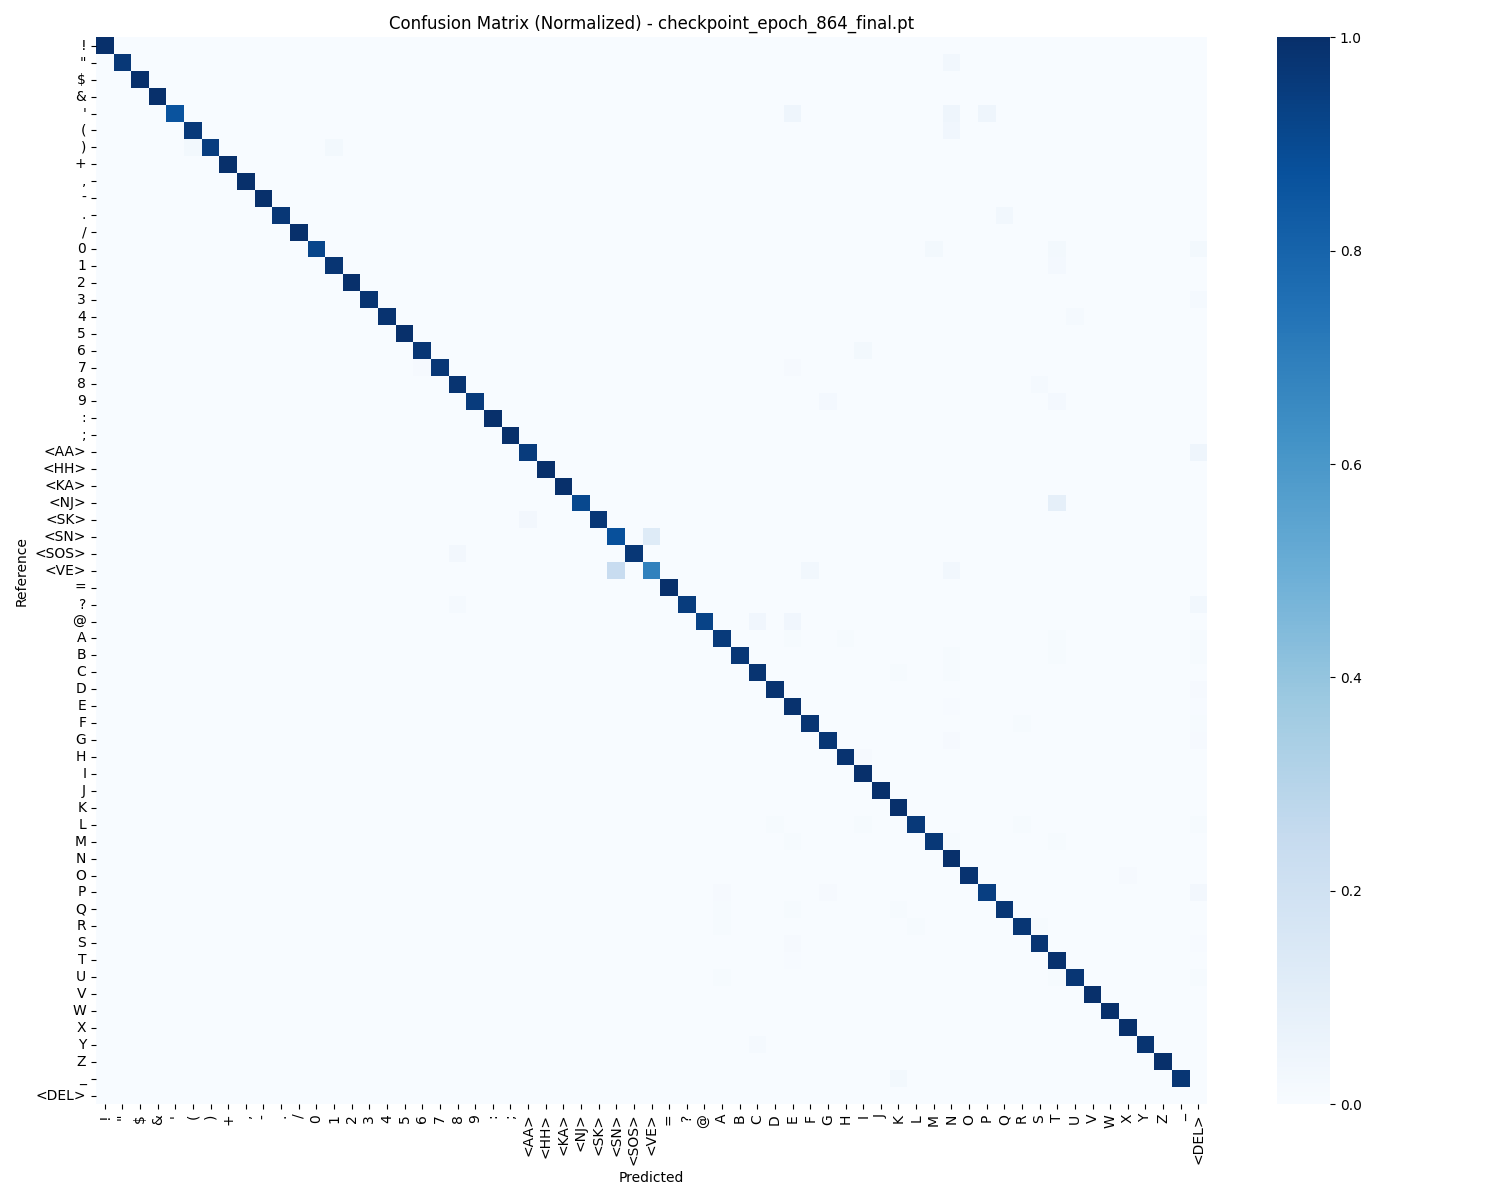
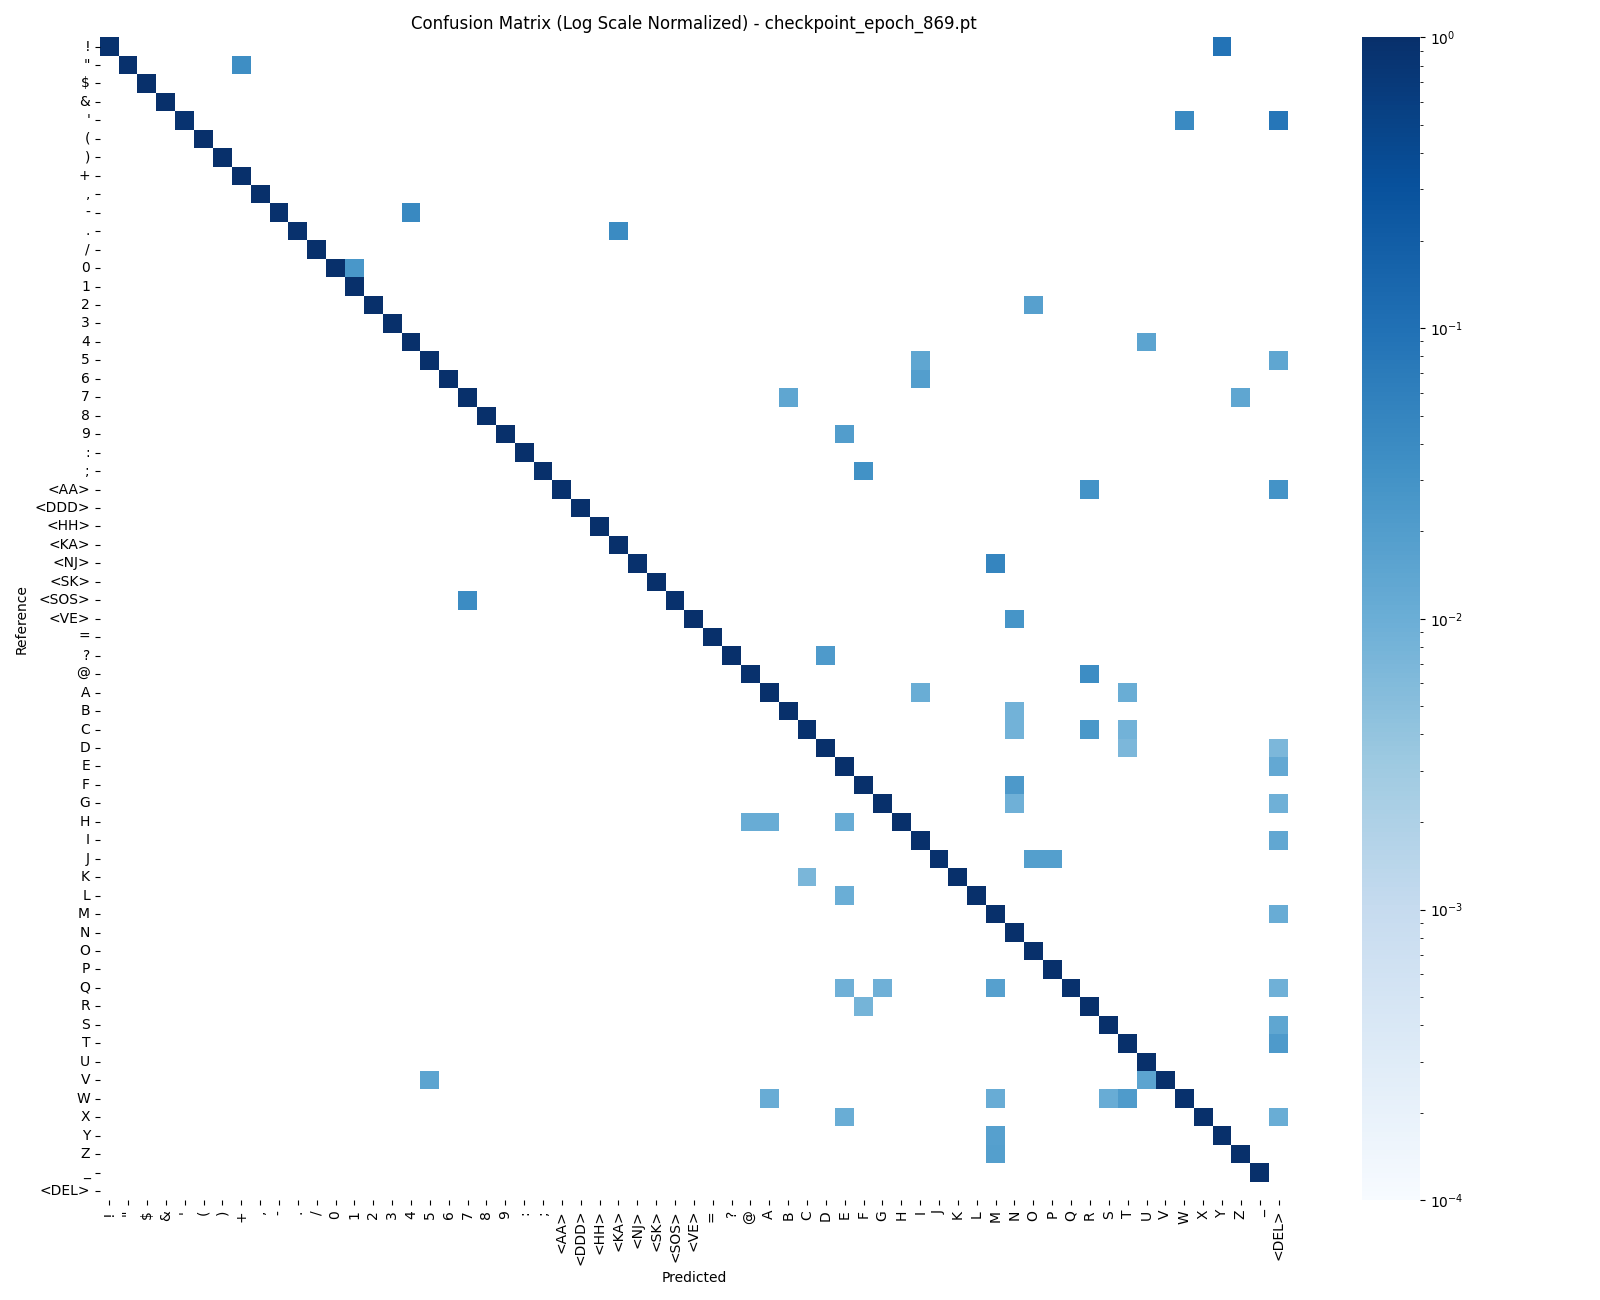
fix prosign issue

diff --git a/demo/inference.js b/demo/inference.js
@@ -20,7 +20,7 @@ export const LOOKAHEAD_FRAMES = 30;
 export const SUBSAMPLING_RATE = 2;
 
 // Vocabulary MUST match config.py and model dimensions (63 classes = 62 chars + 1 blank)
-export const CHARS = ["!", "\"", "$", "&", "'", "(", ")", "+", ",", "-", ".", "/", "0", "1", "2", "3", "4", "5", "6", "7", "8", "9", ":", ";", "=", "?", "@", "A", "B", "C", "D", "E", "F", "G", "H", "I", "J", "K", "L", "M", "N", "O", "P", "Q", "R", "S", "T", "U", "V", "W", "X", "Y", "Z", "_", "<NJ>", "<SN>", "<SK>", "<KA>", "<SOS>", "<VE>", "<HH>", "<AA>"];
+export const CHARS = ["!", "\"", "$", "&", "'", "(", ")", "+", ",", "-", ".", "/", "0", "1", "2", "3", "4", "5", "6", "7", "8", "9", ":", ";", "=", "?", "@", "A", "B", "C", "D", "E", "F", "G", "H", "I", "J", "K", "L", "M", "N", "O", "P", "Q", "R", "S", "T", "U", "V", "W", "X", "Y", "Z", "_", "<NJ>", "<DDD>", "<SK>", "<KA>", "<SOS>", "<VE>", "<HH>", "<AA>"];
 export const ID_TO_CHAR = {};
 CHARS.forEach((char, i) => { ID_TO_CHAR[i + 1] = char; });
 console.log("Vocabulary initialized:", CHARS.length, "chars");

diff --git a/demo/data_gen.js b/demo/data_gen.js
@@ -64,7 +64,7 @@ export const MORSE_DICT = {
     "<VE>": "...-.",
     "<HH>": "........",
     "<NJ>": "-..---",
-    "<SN>": "...-. ",
+    "<DDD>": "-..-..-..",
     "<SOS>": "...---...",
 };
 

diff --git a/tests/test_metrics.py b/tests/test_metrics.py
@@ -17,15 +17,15 @@ def test_levenshtein_basic():
 
 def test_levenshtein_prosigns():
     # 略符号（Prosigns）を含む場合の挙動確認
-    # プロサイン正規化により、"<SN>" は 1文字として扱われる
-    ref = "<SN>"
-    hyp = "<SN>"
+    # プロサイン正規化により、"<SOS>" は 1文字として扱われる
+    ref = "<SOS>"
+    hyp = "<SOS>"
     dist, _ = levenshtein(ref, hyp)
     assert dist == 0
     
     # もし hyp が "SN" だった場合、どれくらいの距離になるか
-    # "<SN>" (1トークン) が "S", "N" (2トークン) に置換・挿入されたとみなされる
-    # 正規化後: "\x01" vs "SN"
+    # "<SOS>" (1トークン) が "S", "O", "S" に置換・挿入されたとみなされる
+    # 正規化後: "\x01" vs "SOS"
     # 置換 (\x01->S) + 挿入 (N) = 距離 2
     hyp2 = "SN"
     dist, _ = levenshtein(ref, hyp2)
@@ -50,26 +50,26 @@ def test_levenshtein_ops():
     assert ops == [('match', 'A', 'A'), ('del', 'B', None)]
 
     # 3. Prosign を含む複雑なケース
-    # "<SN>" (正規化済み) -> "S"
+    # "<SOS>" (正規化済み) -> "S"
     # 正規化後: "\x01" -> "S"
     # 結果: sub("\x01", "S") ではなく、元の文字に戻されているか
-    dist, ops = levenshtein("<SN>", "S")
+    dist, ops = levenshtein("<SOS>", "S")
     assert dist == 1
-    assert ops == [('sub', '<SN>', 'S')]
+    assert ops == [('sub', '<SOS>', 'S')]
 
     # 4. 複数の操作
-    # "CQ <SN>" -> "C <VE>"
+    # "CQ <SOS>" -> "C <VE>"
     # map_prosigns によりスペースは維持されるが、levenshtein_prosign に渡される前に
     # calculate_cer などではスペースが除去される。ここでは直接呼び出すのでスペースあり。
-    dist, ops = levenshtein("CQ <SN>", "C <VE>")
-    # C(match), Q(del), space(match), <SN>(sub <VE>)
-    # 距離: 1(Q del) + 1(<SN> sub <VE>) = 2
+    dist, ops = levenshtein("CQ <SOS>", "C <VE>")
+    # C(match), Q(del), space(match), <SOS>(sub <VE>)
+    # 距離: 1(Q del) + 1(<SOS> sub <VE>) = 2
     assert dist == 2
     assert ops == [
         ('match', 'C', 'C'),
         ('del', 'Q', None),
         ('match', ' ', ' '),
-        ('sub', '<SN>', '<VE>')
+        ('sub', '<SOS>', '<VE>')
     ]
 
 def test_cer_calculation_logic():
@@ -96,20 +96,20 @@ def test_cer_calculation_logic():
 def test_cer_with_prosigns():
     from inference_utils import calculate_cer
     # Prosign を含む場合の CER 計算の正確性を検証
-    # "<SN> K" vs "<SN> R"
-    # スペースは calculate_cer 内部で除去されるため、実質 "<SN>K" vs "<SN>R"
-    # 距離 1, 長さ 2 (SN=1, K=1) -> CER 0.5
-    assert calculate_cer("<SN> K", "<SN> R") == 0.5
+    # "<SOS> K" vs "<SOS> R"
+    # スペースは calculate_cer 内部で除去されるため、実質 "<SOS>K" vs "<SOS>R"
+    # 距離 1, 長さ 2 (SOS=1, K=1) -> CER 0.5
+    assert calculate_cer("<SOS> K", "<SOS> R") == 0.5
 
     # "<SK>" vs "SK"
     # 距離 2 (正規化により <SK> は 1文字, "SK" は 2文字), 長さ 1 -> CER 2.0
     assert calculate_cer("<SK>", "SK") == 2.0
 
     # 複雑なケース
-    # "CQ DE <SN> K" vs "CQ DE <SN> R"
-    # 除去後: "CQDE<SN>K" vs "CQDE<SN>R"
+    # "CQ DE <SOS> K" vs "CQ DE <SOS> R"
+    # 除去後: "CQDE<SOS>K" vs "CQDE<SOS>R"
     # 距離 1, 長さ 6 -> CER 1/6
-    assert calculate_cer("CQ DE <SN> K", "CQ DE <SN> R") == pytest.approx(1/6)
+    assert calculate_cer("CQ DE <SOS> K", "CQ DE <SOS> R") == pytest.approx(1/6)
 
 if __name__ == "__main__":
     # 手動実行用

diff --git a/diagnostics/analyze_char_errors.py b/diagnostics/analyze_char_errors.py
@@ -25,6 +25,7 @@ from torch.utils.data import DataLoader
 from collections import defaultdict
 import numpy as np
 import matplotlib.pyplot as plt
+import matplotlib.colors as colors
 import seaborn as sns
 import pandas as pd
 from sklearn.metrics import confusion_matrix, classification_report
@@ -149,23 +150,40 @@ def analyze_char_errors(checkpoint_path, num_samples=500, batch_size=16, output_
     worst_chars = worst_chars.sort_values('f1-score').head(10)
     print(worst_chars[['precision', 'recall', 'f1-score', 'support']])
 
-    print("\n--- Common Confusions (Ref -> Hyp) ---")
+    print("\n--- Top 10 Common Confusions (Ref -> Hyp) ---")
     conf_counts = defaultdict(int)
     for p in confusion_pairs: conf_counts[p] += 1
-    sorted_conf = sorted(conf_counts.items(), key=lambda x: x[1], reverse=True)
-    for (r, h), count in sorted_conf[:10]:
-        print(f"  {r} -> {h}: {count} times")
+    
+    # Calculate confusion rates relative to the total occurrences of the reference character
+    confusion_stats = []
+    for (r, h), count in conf_counts.items():
+        total_r = char_stats[r]['total']
+        rate = (count / total_r * 100) if total_r > 0 else 0
+        confusion_stats.append((r, h, count, rate))
+    
+    # Sort by count descending
+    sorted_conf = sorted(confusion_stats, key=lambda x: x[2], reverse=True)
+    for r, h, count, rate in sorted_conf[:10]:
+        print(f"  {r:5s} -> {h:5s}: {count:3d} times ({rate:5.1f}% of {r})")
 
     # 2. Confusion Matrix Plot
-    plt.figure(figsize=(15, 12))
-    cm = confusion_matrix(all_refs, all_hyps, labels=vocab + ['<DEL>'])
-    # Normalize by row (reference)
+    plt.figure(figsize=(16, 13))
+    all_labels = vocab + ['<DEL>']
+    cm = confusion_matrix(all_refs, all_hyps, labels=all_labels)
+    
+    # Normalize by row (reference) to get probabilities
     cm_norm = cm.astype('float') / cm.sum(axis=1)[:, np.newaxis]
     cm_norm = np.nan_to_num(cm_norm)
     
+    # Use LogNorm to highlight small errors while keeping the diagonal visible
+    # We use a small epsilon for zero values to avoid log(0)
+    eps = 1e-4
+    
     sns.heatmap(cm_norm, annot=False, fmt='.2f', cmap='Blues',
-                xticklabels=vocab + ['<DEL>'], yticklabels=vocab + ['<DEL>'])
-    plt.title(f"Confusion Matrix (Normalized) - {os.path.basename(checkpoint_path)}")
+                xticklabels=all_labels, yticklabels=all_labels,
+                norm=colors.LogNorm(vmin=eps, vmax=1.0))
+    
+    plt.title(f"Confusion Matrix (Log Scale Normalized) - {os.path.basename(checkpoint_path)}")
     plt.xlabel("Predicted")
     plt.ylabel("Reference")
     plt.tight_layout()

diff --git a/config.py b/config.py
@@ -90,7 +90,7 @@ import string
 STD_CHARS = sorted(list(string.ascii_uppercase + string.digits + "/?.,-()'!&:;=+_\"$@"))
 # 略符号 (Prosigns) やよく使われる略語を独立したトークンとして扱う
 # [修正] <AA> を追加し、<HHHH> を <HH> に修正。
-PROSIGNS = ["<NJ>", "<SN>", "<SK>", "<KA>", "<SOS>", "<VE>", "<HH>", "<AA>"]
+PROSIGNS = ["<NJ>", "<DDD>", "<SK>", "<KA>", "<SOS>", "<VE>", "<HH>", "<AA>"]
 CHARS = STD_CHARS + PROSIGNS # 全ボキャブラリ
 NUM_CLASSES = len(CHARS) + 1 # blank を含めた総クラス数
 CHAR_TO_ID = {char: i + 1 for i, char in enumerate(CHARS)} # 文字から ID へのマップ

diff --git a/tests/test_inference_utils.py b/tests/test_inference_utils.py
@@ -5,10 +5,10 @@ from inference_utils import calculate_cer, map_prosigns, unmap_prosigns, decode_
 import config
 
 def test_prosign_mapping():
-    text = "CQ DE K <SN> TEST <VE>"
+    text = "CQ DE K <SOS> TEST <VE>"
     mapped = map_prosigns(text)
     # Prosigns should be single characters
-    assert "<SN>" not in mapped
+    assert "<SOS>" not in mapped
     assert "<VE>" not in mapped
     
     unmapped = unmap_prosigns(mapped)

diff --git a/data_gen.py b/data_gen.py
@@ -76,7 +76,7 @@ MORSE_DICT = {
     '<VE>': '...-.',
     '<HH>': '........',
     '<NJ>': '-..---',
-    '<SN>': '...-. ',
+    '<DDD>': '-..-..-..',
     '<SOS>': '...---...',
 }
 
